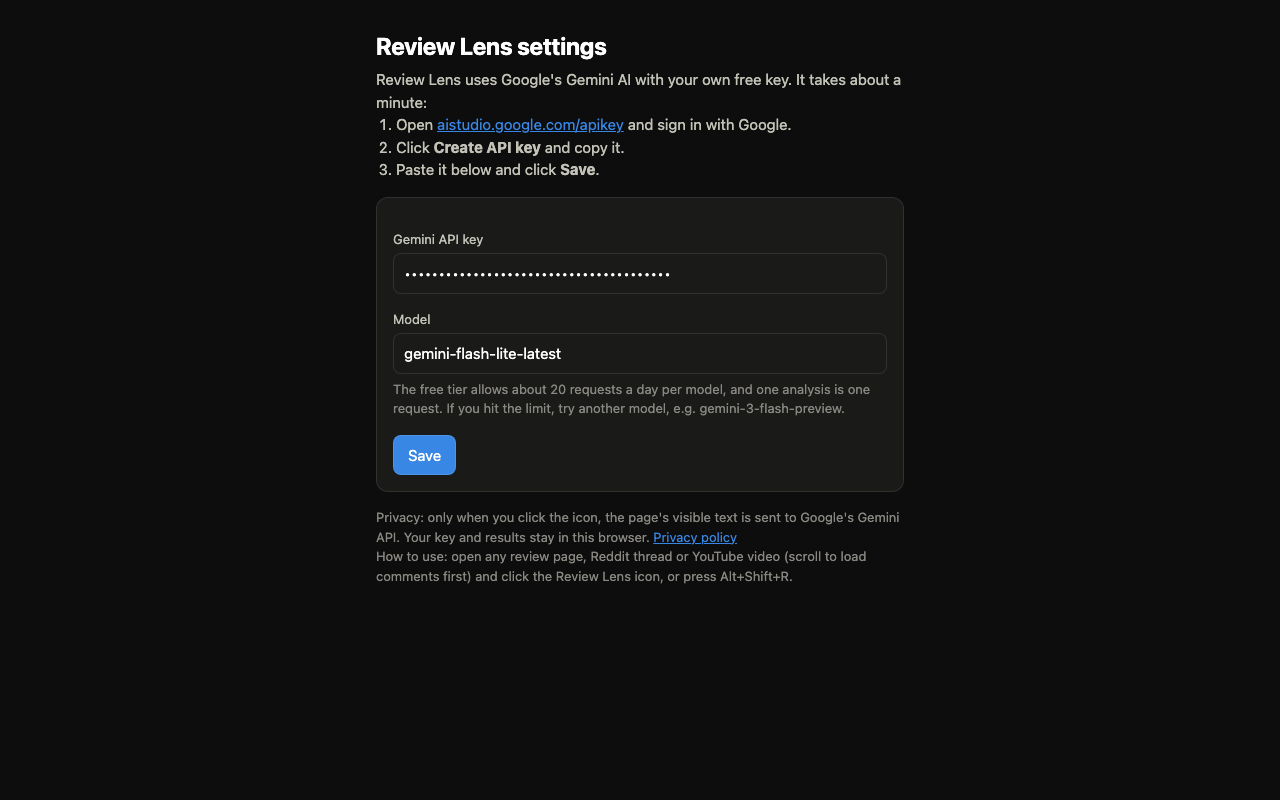
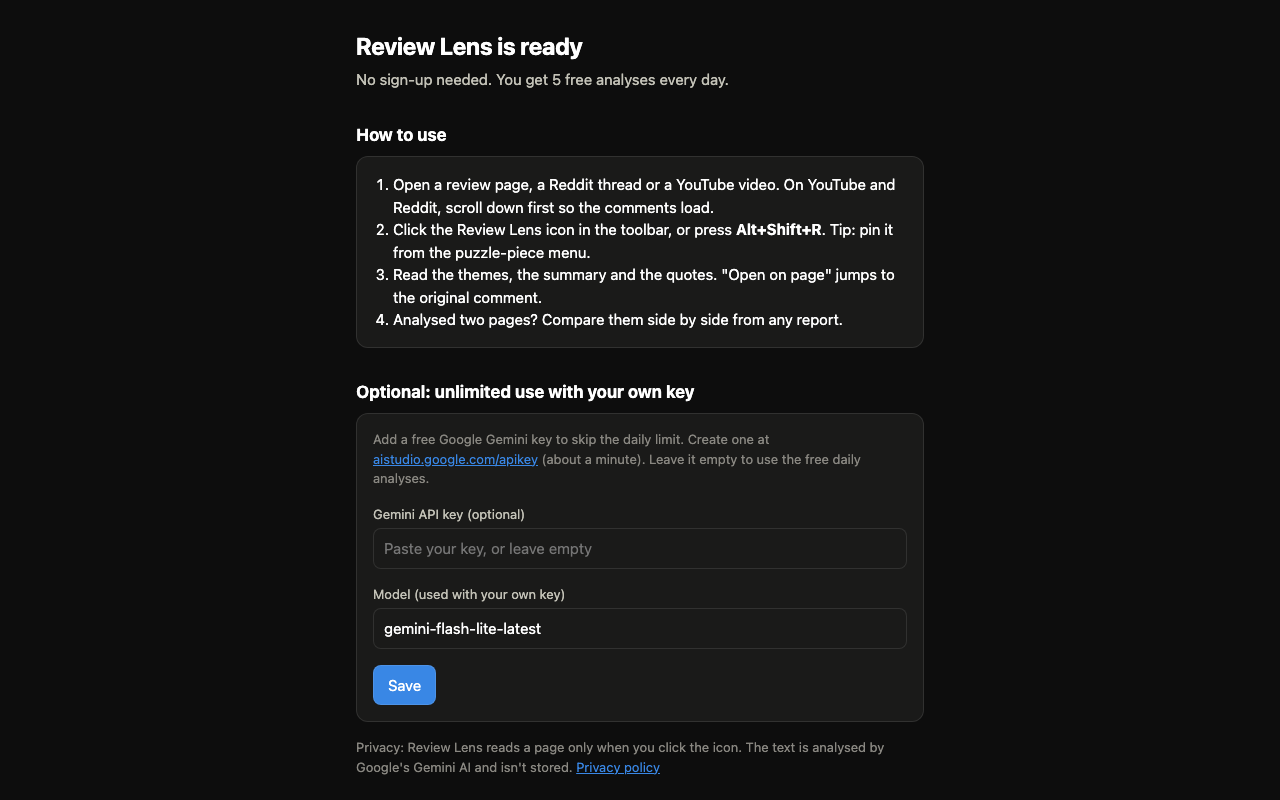
Deploy free tier: Cloudflare Worker behind Netlify proxy (workers.dev is blocked on some networks)

diff --git a/extension/ui.js b/extension/ui.js
@@ -1,7 +1,7 @@
 // Small helpers shared by the extension pages.
 import { ANALYSIS_SCHEMA, COMPARE_SCHEMA, analysisPrompt, comparePrompt, llm, slim } from "./analysis.js";
 
-export const SERVER = "https://review-lens.REPLACE_ME.workers.dev"; // set at deploy time
+export const SERVER = "https://review-lens-app.netlify.app"; // Netlify proxy in front of the Cloudflare Worker (see proxy/)
 
 export const esc = s => String(s).replace(/[&<>"']/g, c => ({ "&": "&amp;", "<": "&lt;", ">": "&gt;", '"': "&quot;", "'": "&#39;" }[c]));
 
@@ -28,7 +28,7 @@ export async function ask(kind, payload) {
   try {
     r = await fetch(SERVER, { method: "POST", headers: { "content-type": "application/json" }, body: JSON.stringify(body) });
   } catch {
-    throw new Error("Can't reach the Review Lens server. Check your internet connection and try again.");
+    throw new Error("Can't reach the Review Lens server. Check your internet connection. Some college or office networks block it: try mobile data, or add your own free key in Settings.");
   }
   const d = await r.json().catch(() => ({}));
   if (!r.ok) throw new Error(d.error || `Review Lens server error (${r.status}). Try again in a minute.`);

diff --git a/README.md b/README.md
@@ -33,13 +33,26 @@ themes, an AI summary and quotes verified against the page. Select some text fir
 Every analysis is saved, so you can compare 2-4 pages side by side (e.g. PW vs Unacademy threads).
 
 **Install:** open `chrome://extensions` (or `brave://extensions`), turn on **Developer mode**, click
-**Load unpacked** and pick the `extension/` folder. Add your Gemini key in the settings page that opens.
-Shortcut: **Alt+Shift+R**.
+**Load unpacked** and pick the `extension/` folder. No sign-up or key needed: 5 free analyses a day.
+Shortcut: **Alt+Shift+R**. Store package: `extension/build.sh` builds `dist/review-lens-<version>.zip`.
 
 - Same guardrails as the dashboard: counts come from code, quotes must appear on the page, and each quote has an
   "open on page" link that scrolls to and highlights it.
-- Defaults to `gemini-flash-lite-latest` so it doesn't use up the daily job's `gemini-3-flash-preview` quota.
+- On YouTube and Reddit it reads only the comments (scroll to load them first).
 - `node extension/test.mjs` checks the guardrails; pass saved `{title,url,text}` JSON files to also run a live analysis.
+
+### Free tier server
+
+```
+extension -> review-lens-app.netlify.app (proxy/) -> review-lens.deep0976.workers.dev (worker/) -> Gemini
+```
+
+- `worker/` is a Cloudflare Worker holding the Gemini key as a secret. It builds the prompts itself (so it can't be
+  used as a general AI proxy), allows 5 analyses per install per day and 200 per day in total, and falls back across
+  free Gemini models. Deploy: `cd worker && npx wrangler deploy`.
+- `proxy/` is a one-line Netlify rewrite in front of it, because `*.workers.dev` is blocked on some college and ISP
+  networks. Deploy: `cd proxy && npx netlify-cli deploy --prod --dir .`
+- Users who add their own Gemini key in Settings skip the server entirely.
 
 ## Evals
 
